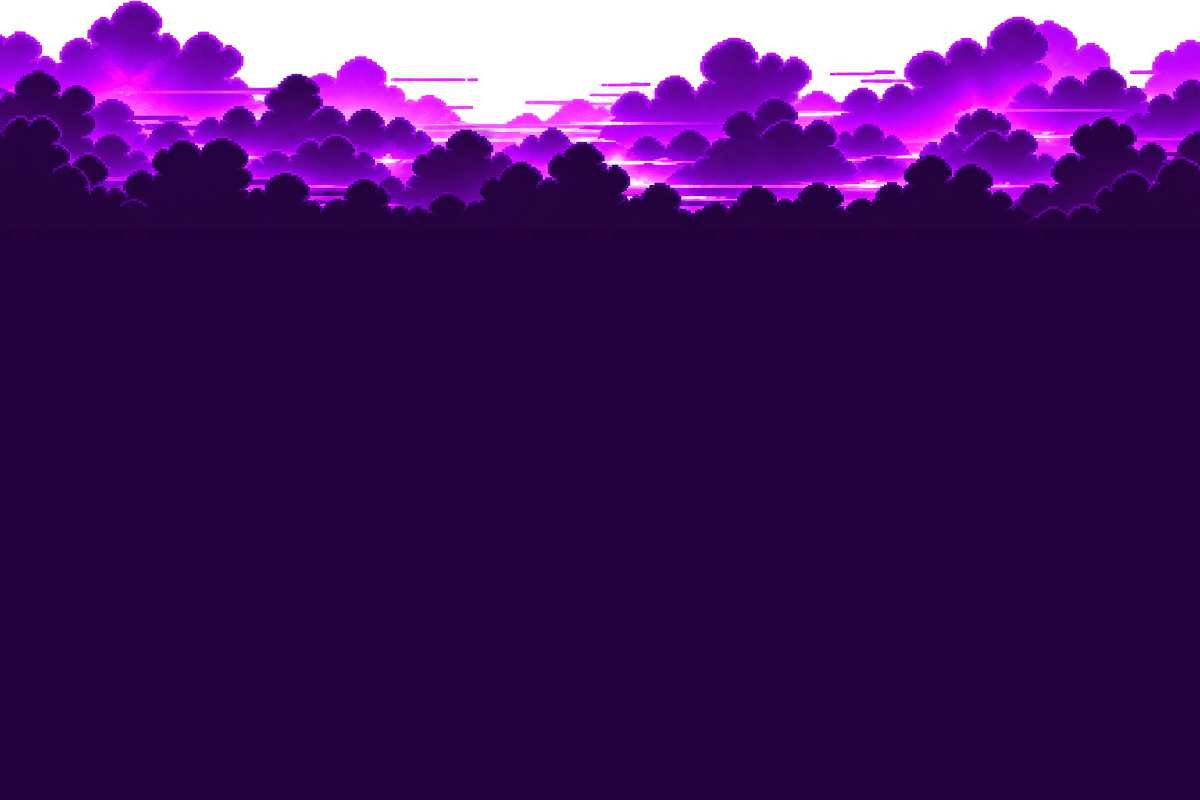
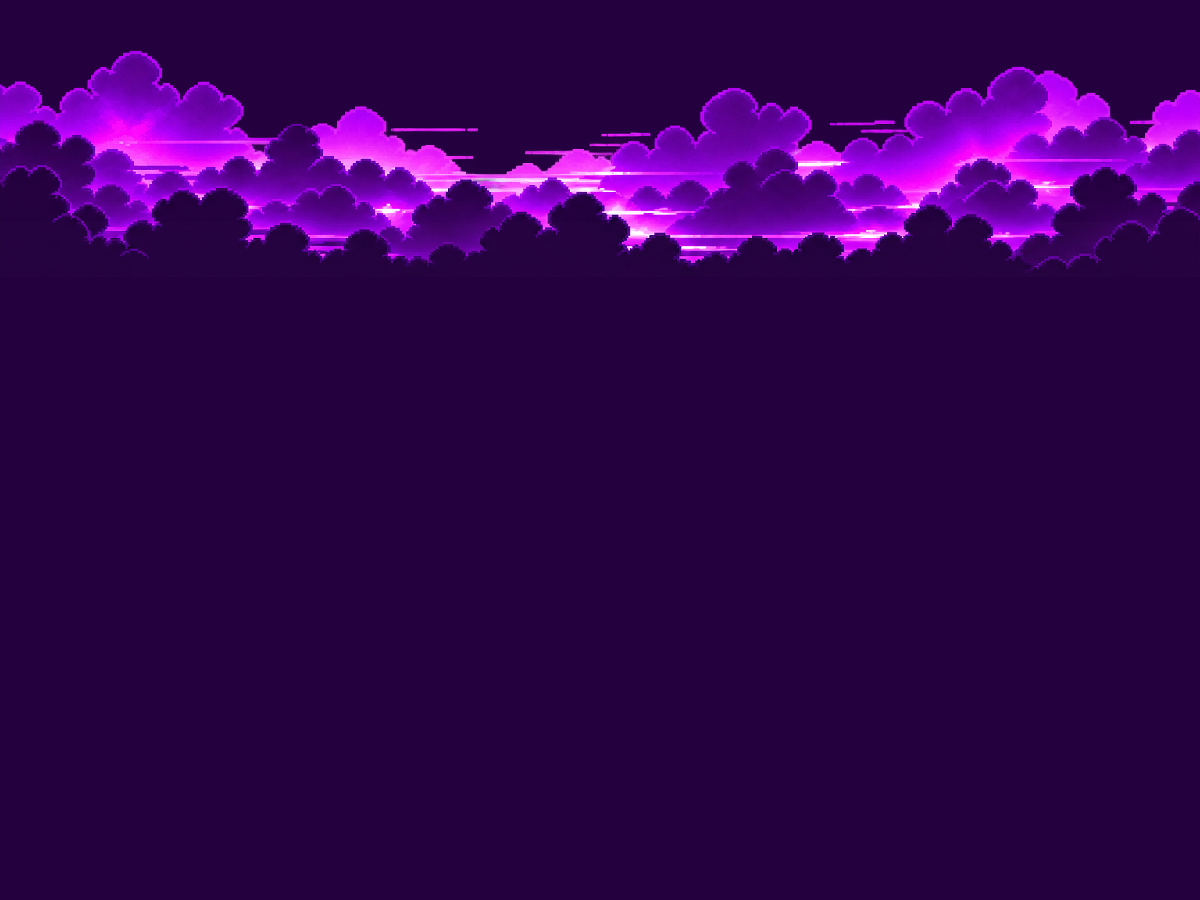
correcion del fondo imagen

Changed region(s): [[0.0, 0.0, 1.0, 0.3125]]

diff --git a/final-acces/src/game/scenes/Level2Scene.js b/final-acces/src/game/scenes/Level2Scene.js
@@ -65,6 +65,9 @@ class Level2Scene extends Phaser.Scene {
     this.bg4.setScrollFactor(0)
     this.bg5.setScrollFactor(0)
 
+    //this.bg5.y = fondoY + 100
+
+
 
   // MAPA
     const map = this.make.tilemap({ key: 'level2' })
